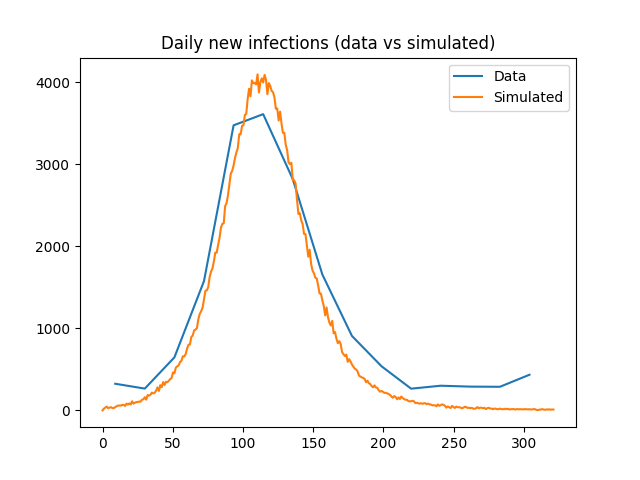
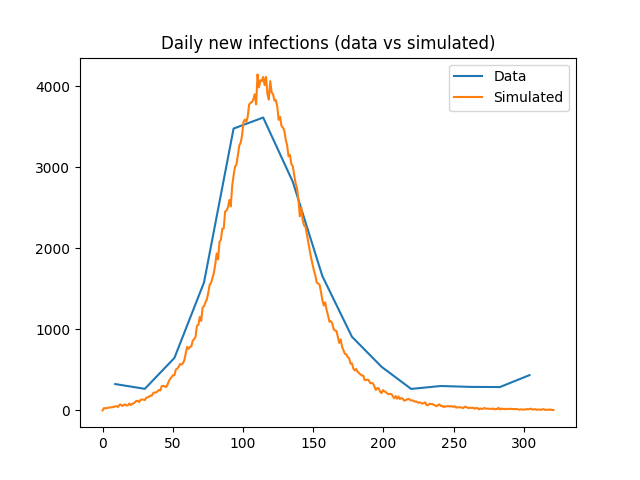
small fixes to polynomial coupling function and plots without opinion coupling

diff --git a/optimization.py b/optimization.py
@@ -37,7 +37,7 @@ def run_simulation(parameters: tuple[float, float], initial_opinion: np.ndarray,
     Args:
         parameters (tuple[float, float]): Tuple of parameters for parametrizing the model function for coupling infections through external potential
             For choice="sigmoid", we have model function(infected, opinion): parameters[0] * (1 - infected) + parameters[1] * infected * sigmoid(opinion)
-            For choice="polynomial", we have a=parameters[0] and I_crit=parameters[1] (refer to model decribed in paper by Schütte)
+            For choice="polynomial", we have  I_crit=parameters[0] and a=parameters[1] (refer to model decribed in paper by Schütte)
         initial_opinion (np.ndarray): Inital opinion for each agent sampled from PDF
         initial_infected (int): Initial number of infected from data for simulation
         choice (str): Choice of coupling algorithm ("polynomial", "sigmoid")
@@ -138,7 +138,7 @@ def loss(parameters, opinion_data, opinion_idx, infection_data, infection_idx, i
 if __name__ == '__main__':
     # TODO: Either use the fixed maximum infection rate of 0.35 or include it as a parameter to optimize
     # TODO: Perform the optimization over the parameters of the model function for coupling opinions with infections, and its gradient
-    initial_guess = [0, 0]
+    initial_guess = [0.25, 1]
     
     # Choose start and end dates for infection data and opinion data
     start_date = datetime(2020, 3, 12)
@@ -168,10 +168,10 @@ if __name__ == '__main__':
     # Choice for model function for coupling opinions with infections
     # choices = ["polynomial", "sigmoid"]
     # When one of the above choices is not selected, grad_V is set to 0 and opinions stay constant
-    choice = "sigmoid"
+    choice = "polynomial"
     
     with futures.ProcessPoolExecutor(max_workers=NUM_WORKERS) as pool:
-        result = differential_evolution(func=loss, bounds=[(-1, 1), (-1, 1)], x0=initial_guess,
+        result = differential_evolution(func=loss, bounds=[(0.1, 0.9), (0, 1)], x0=initial_guess,
                                         args=(opinion_data, opinion_idx, infection_data, infection_idx, initial_infected, choice, pool),
                                         strategy='best1bin', disp=True, polish=False, popsize=5, maxiter=10, tol=0.1, workers=1)
     print(result)

diff --git a/co_evolution_modified.py b/co_evolution_modified.py
@@ -86,7 +86,7 @@ class opinion_dynamics:
             elif self.grad_V == "polynomial":
                 alpha = (1 - 2 * self.grad_V_params[0])/(self.grad_V_params[0]**2 - self.grad_V_params[0])
                 inf_func = alpha * infected_frac**2 + (2 - alpha) * infected_frac - 1
-                self.opinions_curr -= 4 * self.opinions_curr * (self.opinions_curr**2 + 1) - 8 * self.grad_V_params[1] * inf_func(infected_frac) * self.opinions_curr**2 * self.dt
+                self.opinions_curr -= 4 * self.opinions_curr * (self.opinions_curr**2 + 1) - 8 * self.grad_V_params[1] * inf_func * self.opinions_curr**2 * self.dt
             
             self.opinions_curr = np.clip(self.opinions_curr, -3.5, 3.5)
             self.opinion_array[i] = np.copy(self.opinions_curr)
@@ -146,6 +146,7 @@ def main():
     N = 300000
     sim_to_data_ratio = 3
     sim_length = len(opinion_data) * sim_to_data_ratio
+    print(sim_length)
     initial_opinion = opinion_sampler(opinion_data[0], N)
     params = (0, 0)
     
@@ -158,7 +159,7 @@ def main():
         interaction_distance=0,
         noise_strength=0,
         stochiomatric_vectors=np.array([[-1, 1, 0], [0, -1, 1]]),
-        grad_V="sigmoid",
+        grad_V="none",
         grad_V_params=params,
         inf_rate_max=0.4
     )
